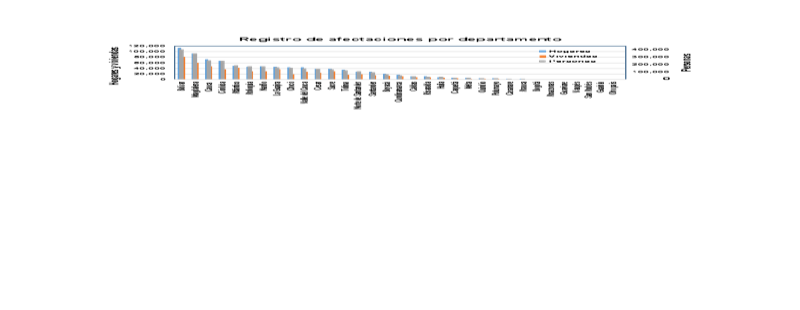
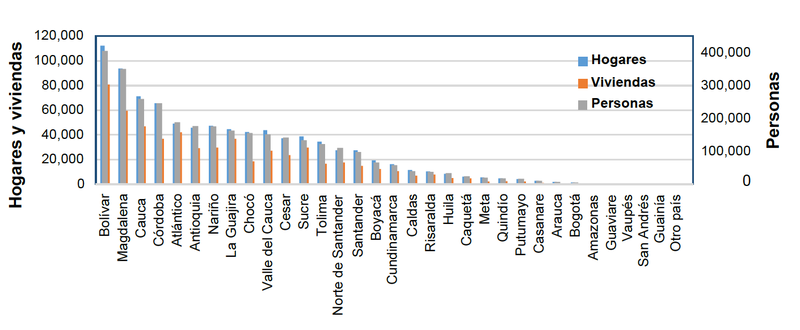
feat(otras-publicaciones): agregar memorias PN26 y ajustar miniaturas
- Sincroniza cap07.png (2021) y cap15.png (2023) con las figuras
  actualizadas en las cards de cada libro (Figura 7.1 y Figura_1
  recortada, respectivamente).
- Agrega la card de las Memorias PN26 en "Otras Publicaciones",
  enlazando a scr-ungrd.github.io/memorias-pn26/.
- Ajusta .other-pubs-content (gap + flex-wrap) para soportar más de
  una publicación en la sección.

Changed region(s): [[0.0, 0.0871, 1.0, 0.9581], [0.875, 0.1452, 0.9375, 0.1742], [0.9062, 0.5226, 0.9375, 0.5516]]

diff --git a/custom.scss b/custom.scss
@@ -539,8 +539,10 @@ body.quarto-dark .book-group-title {
 
 .other-pubs-content {
   display: flex;
+  flex-wrap: wrap;
+  gap: 24px;
   justify-content: flex-start;
-  max-width: 700px;
+  max-width: 1000px;
 }
 
 .other-pub-link {
